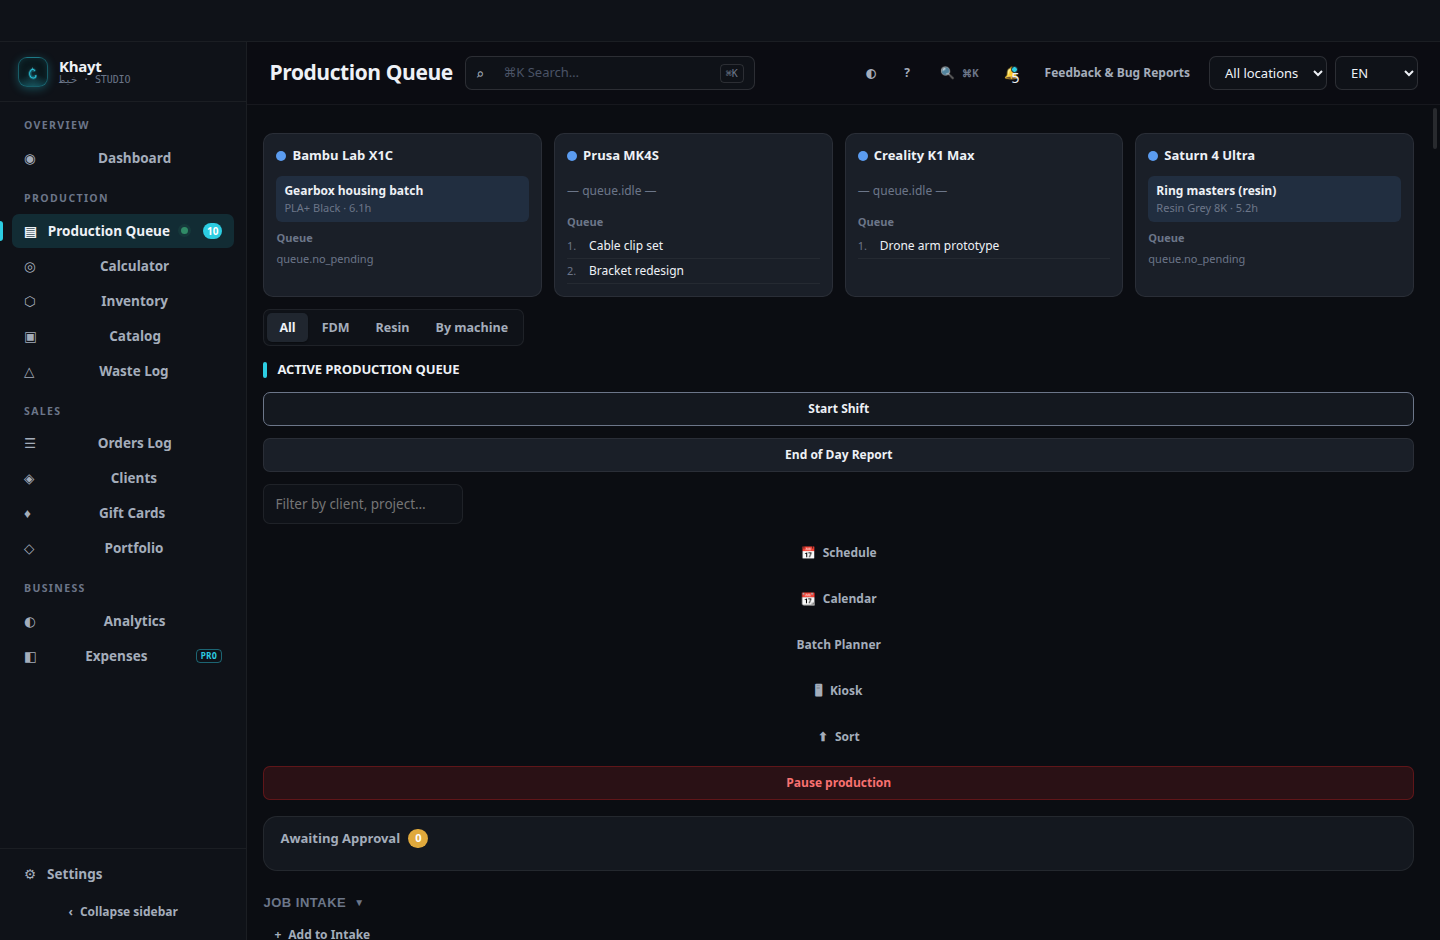
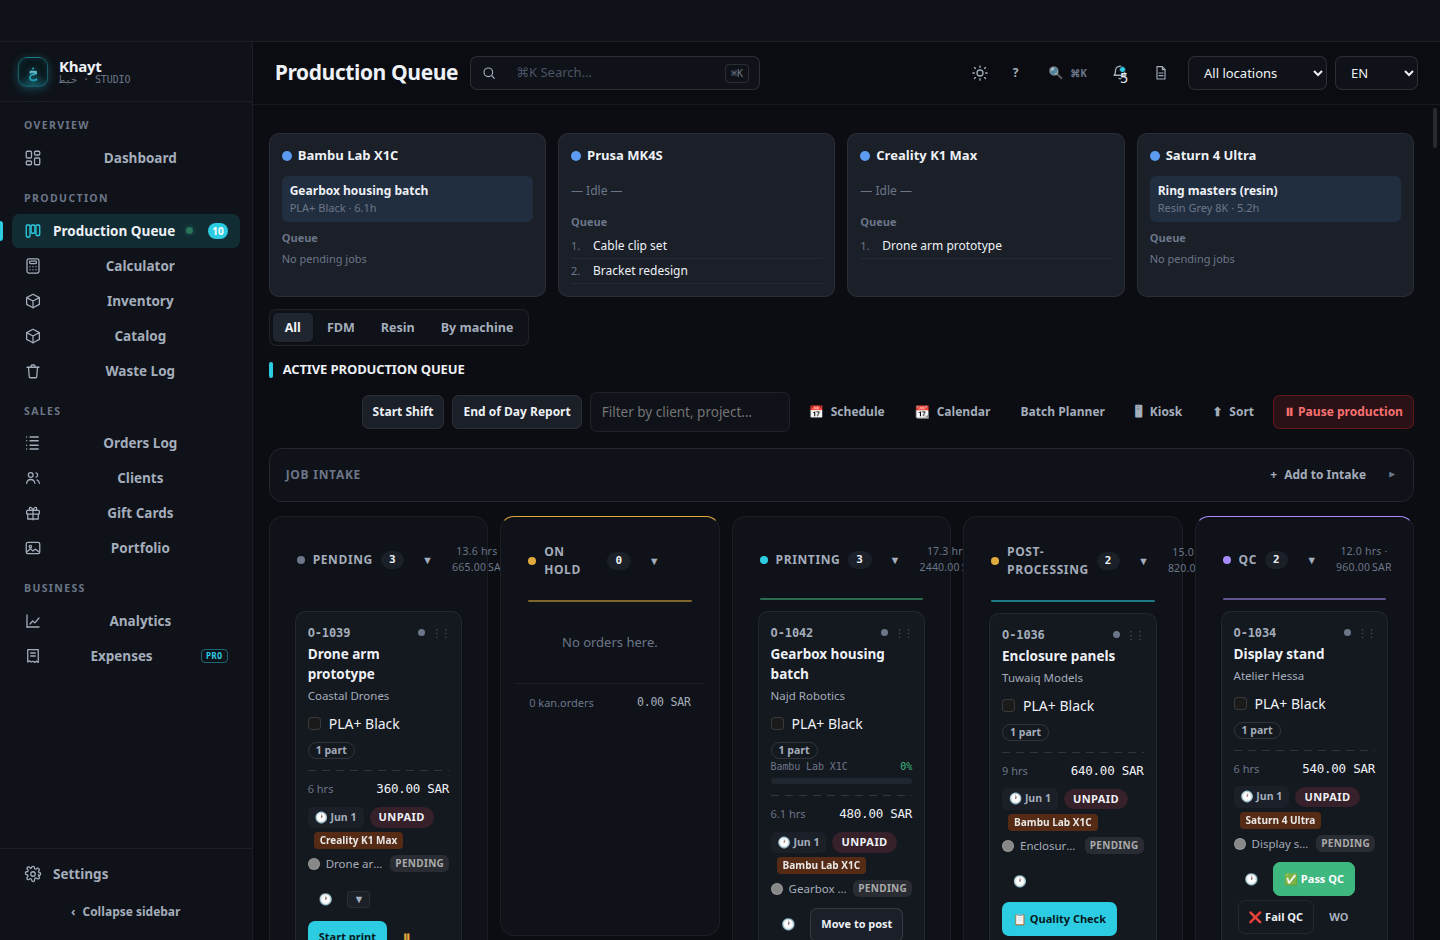
docs: refresh README screenshots for v2.2.0 Studio UI

diff --git a/CHANGELOG.md b/CHANGELOG.md
@@ -4,6 +4,10 @@ All notable changes to Khayt are documented here. Version format: [VERSIONING.md
 
 ## [Unreleased]
 
+### Changed
+
+- README screenshots refreshed for Studio UI on v2.2.0 (`npm run capture:screenshots`).
+
 ## [2.2.0] - 2026-05-30
 
 Four-bundle release: production shop, ZATCA compliance, LAN quote approval, and platform hardening. Completes [ROADMAP.md](./ROADMAP.md) 2.2.0 goals.
